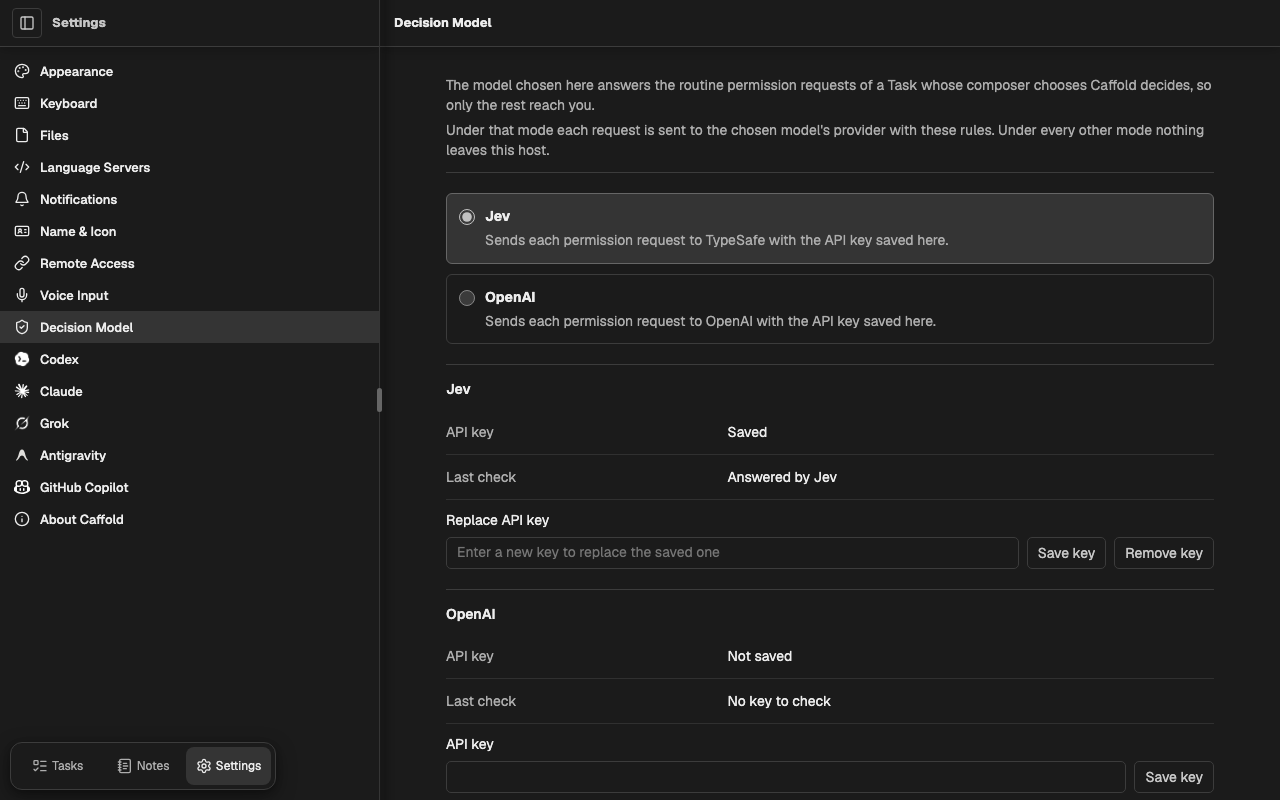
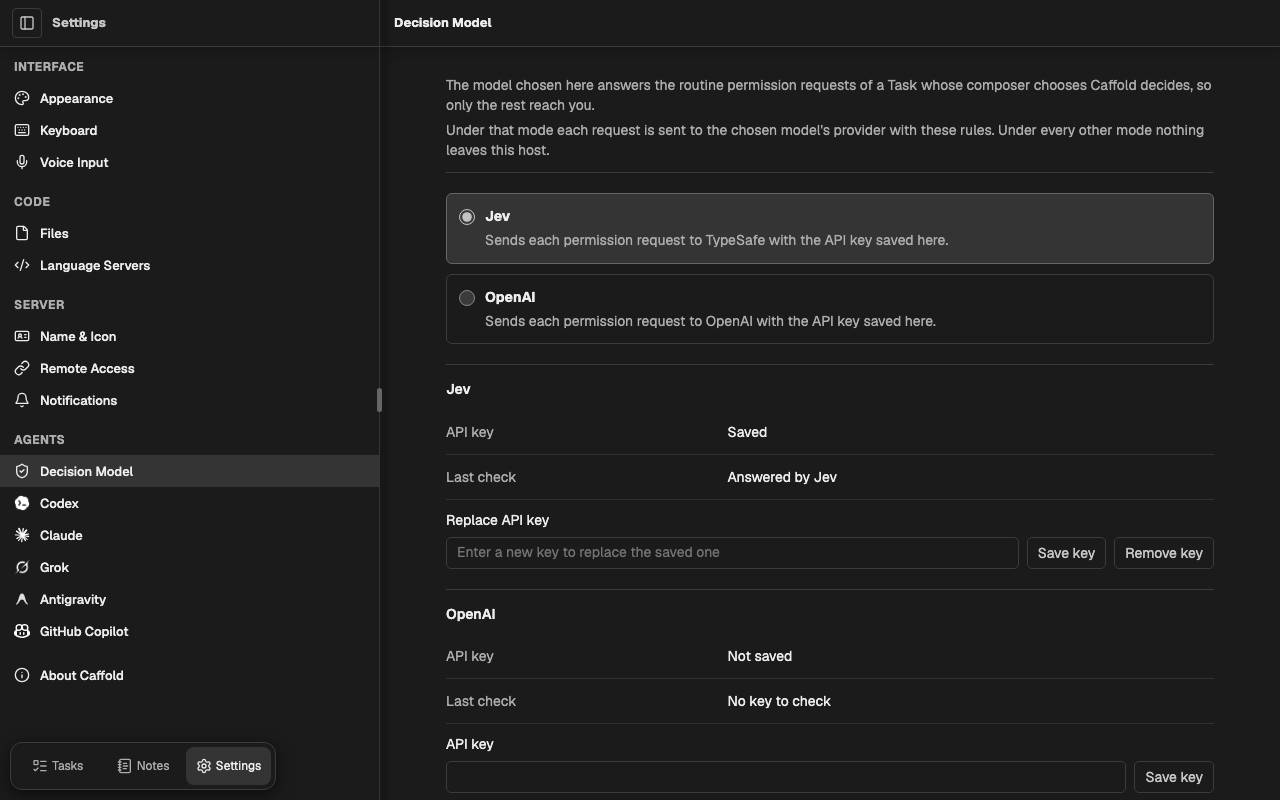
Group the Settings list under named sections
The Settings list ran fifteen pages in one column, with interface, server,
and agent pages mixed together. It now names four groups, Interface, Code,
Server, and Agents, in the Task list's Archived heading lettering, and keeps
About Caffold last on its own.

Changed region(s): [[0.0, 0.0625, 0.3125, 0.875]]

diff --git a/frontend/pages/(task-workspace)/settings/components/navigator.ts b/frontend/pages/(task-workspace)/settings/components/navigator.ts
@@ -1,4 +1,4 @@
-import { html } from "lit";
+import { html, nothing } from "lit";
 import { customElement, property } from "lit/decorators.js";
 import {
   type ActionHintPull,
@@ -20,33 +20,64 @@ import type {
 
 import styles from "./navigator.css.js";
 
+interface SettingsNavigatorGroup {
+  label?: string;
+  entries: readonly SettingsNavigatorEntry[];
+}
+
 // Each brand mark is published in a single color so it can be tinted, and the
 // theme tints it through --brand-monochrome-filter.
-const ITEMS: readonly SettingsNavigatorEntry[] = [
-  { section: "appearance", label: "Appearance", icon: "Palette" },
-  { section: "keyboard", label: "Keyboard", icon: "Keyboard" },
-  { section: "files", label: "Files", icon: "File" },
+const GROUPS: readonly SettingsNavigatorGroup[] = [
   {
-    section: "language-servers",
-    label: "Language Servers",
-    icon: "CodeXml",
+    label: "Interface",
+    entries: [
+      { section: "appearance", label: "Appearance", icon: "Palette" },
+      { section: "keyboard", label: "Keyboard", icon: "Keyboard" },
+      { section: "voice", label: "Voice Input", icon: "Mic" },
+    ],
   },
-  { section: "notifications", label: "Notifications", icon: "Bell" },
-  { section: "name-and-icon", label: "Name & Icon", icon: "IdCard" },
-  { section: "remote-access", label: "Remote Access", icon: "Link" },
-  { section: "voice", label: "Voice Input", icon: "Mic" },
-  { section: "decision-model", label: "Decision Model", icon: "ShieldCheck" },
-  { section: "codex", label: "Codex", brand: "codex-template@2x.png" },
-  { section: "claude", label: "Claude", brand: "claude-template.png" },
-  { section: "grok", label: "Grok", brand: "grok-template.png" },
   {
-    section: "antigravity",
-    label: "Antigravity",
-    brand: "antigravity-icon.svg",
+    label: "Code",
+    entries: [
+      { section: "files", label: "Files", icon: "File" },
+      {
+        section: "language-servers",
+        label: "Language Servers",
+        icon: "CodeXml",
+      },
+    ],
   },
-  { section: "copilot", label: "GitHub Copilot", brand: "copilot.svg" },
-  { section: "about", label: "About Caffold", icon: "Info" },
+  {
+    label: "Server",
+    entries: [
+      { section: "name-and-icon", label: "Name & Icon", icon: "IdCard" },
+      { section: "remote-access", label: "Remote Access", icon: "Link" },
+      { section: "notifications", label: "Notifications", icon: "Bell" },
+    ],
+  },
+  {
+    label: "Agents",
+    entries: [
+      {
+        section: "decision-model",
+        label: "Decision Model",
+        icon: "ShieldCheck",
+      },
+      { section: "codex", label: "Codex", brand: "codex-template@2x.png" },
+      { section: "claude", label: "Claude", brand: "claude-template.png" },
+      { section: "grok", label: "Grok", brand: "grok-template.png" },
+      {
+        section: "antigravity",
+        label: "Antigravity",
+        brand: "antigravity-icon.svg",
+      },
+      { section: "copilot", label: "GitHub Copilot", brand: "copilot.svg" },
+    ],
+  },
+  { entries: [{ section: "about", label: "About Caffold", icon: "Info" }] },
 ];
+
+const ENTRIES = GROUPS.flatMap(({ entries }) => entries);
 
 @customElement("caffold-settings-navigator")
 export class CaffoldSettingsNavigator extends CaffoldElement {
@@ -67,15 +98,22 @@ export class CaffoldSettingsNavigator extends CaffoldElement {
   private readonly items = new DrawnRefs<CaffoldSettingsNavigatorItem>(this);
 
   override render() {
-    const items = ITEMS.map((entry) => {
-      const about = entry.section === "about";
-      return html`<caffold-settings-navigator-item
-        ${drawn(this.items.of(entry.section))}
-        .entry=${entry}
-        .selected=${entry.section === this.selectedSection}
-        .updateAvailable=${about && this.updateAvailable}
-        .reloadReady=${about && this.reloadReady}
-      ></caffold-settings-navigator-item>`;
+    const groups = GROUPS.map(({ label, entries }) => {
+      const heading = label
+        ? html`<h3 class="settings-navigator-group-label">${label}</h3>`
+        : nothing;
+      return html`<div class="settings-navigator-group">${heading}${entries.map(
+        (entry) => {
+          const about = entry.section === "about";
+          return html`<caffold-settings-navigator-item
+            ${drawn(this.items.of(entry.section))}
+            .entry=${entry}
+            .selected=${entry.section === this.selectedSection}
+            .updateAvailable=${about && this.updateAvailable}
+            .reloadReady=${about && this.reloadReady}
+          ></caffold-settings-navigator-item>`;
+        },
+      )}</div>`;
     });
     return html`
       <header class="settings-navigator-header">
@@ -89,7 +127,7 @@ export class CaffoldSettingsNavigator extends CaffoldElement {
         })}
         class="settings-navigator-list"
         aria-label="Settings sections"
-      >${items}</nav>
+      >${groups}</nav>
     `;
   }
 
@@ -98,7 +136,7 @@ export class CaffoldSettingsNavigator extends CaffoldElement {
     const list = this.list.value;
     return mergeActionHintScopes(
       own,
-      ...ITEMS.map(({ section }) =>
+      ...ENTRIES.map(({ section }) =>
         this.items.get(section)?.actionHintScope({
           ...pull,
           scopeId,

diff --git a/frontend/tests/e2e/settings.spec.js b/frontend/tests/e2e/settings.spec.js
@@ -16,6 +16,7 @@ import {
 } from "./support/browser-defaults.js";
 import {
   activeTaskProjection,
+  archivedListTask,
   captureReviewScreenshot,
   installEventSourceMock,
   mockAgentModels,
@@ -305,6 +306,95 @@ test("draws Settings sections at the Task list's row height and title weight, an
       })),
     );
   }
+});
+
+test("groups Settings sections under names lettered like the Task list's Archived heading", { tag: "@server-steady" }, async ({
+  page,
+}) => {
+  await installEventSourceMock(page);
+  await page.route(/\/api\/tasks(?:\?|$)/, (route) =>
+    route.fulfill({
+      json: activeTaskProjection([
+        { threadId: "thread-active-reference", title: "Active reference", updatedMs: Date.now() },
+      ]),
+    })
+  );
+  await page.route(/\/api\/tasks\/archived(?:\?|$)/, (route) =>
+    route.fulfill({
+      json: {
+        tasks: [
+          archivedListTask({
+            threadId: "thread-archived-reference",
+            title: "Archived reference",
+            updatedMs: Date.now(),
+          }),
+        ],
+        nextCursor: null,
+      },
+    })
+  );
+
+  await page.goto("/");
+  const archived = page.locator("caffold-archived-task-list .task-list-section-header > h2");
+  await expect(archived).toHaveText("Archived");
+  const archivedLettering = await archived.evaluate((heading) => {
+    const style = getComputedStyle(heading);
+    return {
+      fontSize: style.fontSize,
+      fontWeight: style.fontWeight,
+      letterSpacing: style.letterSpacing,
+      textTransform: style.textTransform,
+      color: style.color,
+    };
+  });
+
+  await page.goto("/settings");
+  const navigator = page.locator("caffold-settings-navigator");
+  await expect(navigator.locator('button[data-settings-section="about"]')).toBeVisible();
+  const groups = await navigator.evaluate((element) =>
+    [...element.shadowRoot.querySelectorAll(".settings-navigator-group")].map((group) => {
+      const name = group.querySelector(".settings-navigator-group-label");
+      const buttons = [...group.querySelectorAll("caffold-settings-navigator-item")].map(
+        (item) => item.shadowRoot.querySelector("button"),
+      );
+      const mark = buttons[0].querySelector(
+        ".settings-navigator-item-icon-slot, .settings-navigator-item-brand",
+      );
+      const style = name && getComputedStyle(name);
+      return {
+        name: name?.textContent ?? null,
+        sections: buttons.map((button) => button.dataset.settingsSection),
+        lettering: style && {
+          fontSize: style.fontSize,
+          fontWeight: style.fontWeight,
+          letterSpacing: style.letterSpacing,
+          textTransform: style.textTransform,
+          color: style.color,
+        },
+        nameStartsAtMark: name
+          ? Math.abs(
+            name.getBoundingClientRect().left + Number.parseFloat(style.paddingLeft)
+              - mark.getBoundingClientRect().left,
+          ) < 0.5
+          : null,
+        clipped: name ? name.scrollWidth > name.clientWidth : null,
+      };
+    })
+  );
+  const named = (name, sections) => ({
+    name,
+    sections,
+    lettering: archivedLettering,
+    nameStartsAtMark: true,
+    clipped: false,
+  });
+  expect(groups).toEqual([
+    named("Interface", ["appearance", "keyboard", "voice"]),
+    named("Code", ["files", "language-servers"]),
+    named("Server", ["name-and-icon", "remote-access", "notifications"]),
+    named("Agents", ["decision-model", "codex", "claude", "grok", "antigravity", "copilot"]),
+    { name: null, sections: ["about"], lettering: null, nameStartsAtMark: null, clipped: null },
+  ]);
 });
 
 test("draws no Settings page text larger than the page's description", { tag: ["@desktop", "@foldable"] }, async ({

diff --git a/frontend/tests/e2e/settings-updates.spec.js b/frontend/tests/e2e/settings-updates.spec.js
@@ -229,12 +229,12 @@ test("About offers its update action and the Settings list names the entry with 
   await expect.poll(() => workspaceTargets(page, "settings:section:")).toEqual([
     ["appearance", "Open Appearance settings"],
     ["keyboard", "Open Keyboard settings"],
+    ["voice", "Open Voice Input settings"],
     ["files", "Open Files settings"],
     ["language-servers", "Open Language Servers settings"],
-    ["notifications", "Open Notifications settings"],
     ["name-and-icon", "Open Name & Icon settings"],
     ["remote-access", "Open Remote Access settings"],
-    ["voice", "Open Voice Input settings"],
+    ["notifications", "Open Notifications settings"],
     ["decision-model", "Open Decision Model settings"],
     ["codex", "Open Codex settings"],
     ["claude", "Open Claude settings"],

diff --git a/frontend/pages/(task-workspace)/settings/components/navigator.css b/frontend/pages/(task-workspace)/settings/components/navigator.css
@@ -53,6 +53,25 @@
   display: none;
 }
 
+.settings-navigator-group {
+  display: grid;
+}
+
+.settings-navigator-group + .settings-navigator-group {
+  margin-top: var(--interface-space-6);
+}
+
+/* The Task list's Archived heading, inset like the entries' icons. */
+.settings-navigator-group-label {
+  margin: 0;
+  padding: var(--interface-space-2) var(--interface-space-7) 0.4375rem;
+  color: var(--muted);
+  font-size: var(--task-group-font-size);
+  font-weight: 700;
+  letter-spacing: 0.045em;
+  text-transform: uppercase;
+}
+
 :host([hidden]) {
   display: none;
 }

diff --git a/docs/product/ui-surfaces.md b/docs/product/ui-surfaces.md
@@ -784,6 +784,11 @@ The Notes surface only reads them.
 
 ## Settings
 
+The Settings list names four groups of pages: Interface (Appearance,
+Keyboard, Voice Input), Code (Files, Language Servers), Server (Name & Icon,
+Remote Access, Notifications), and Agents (Decision Model, Codex, Claude,
+Grok, Antigravity, GitHub Copilot). About Caffold comes last, outside them.
+
 Settings includes:
 
 - Appearance controls for System/Light/Dark theme, the Interface and Code
